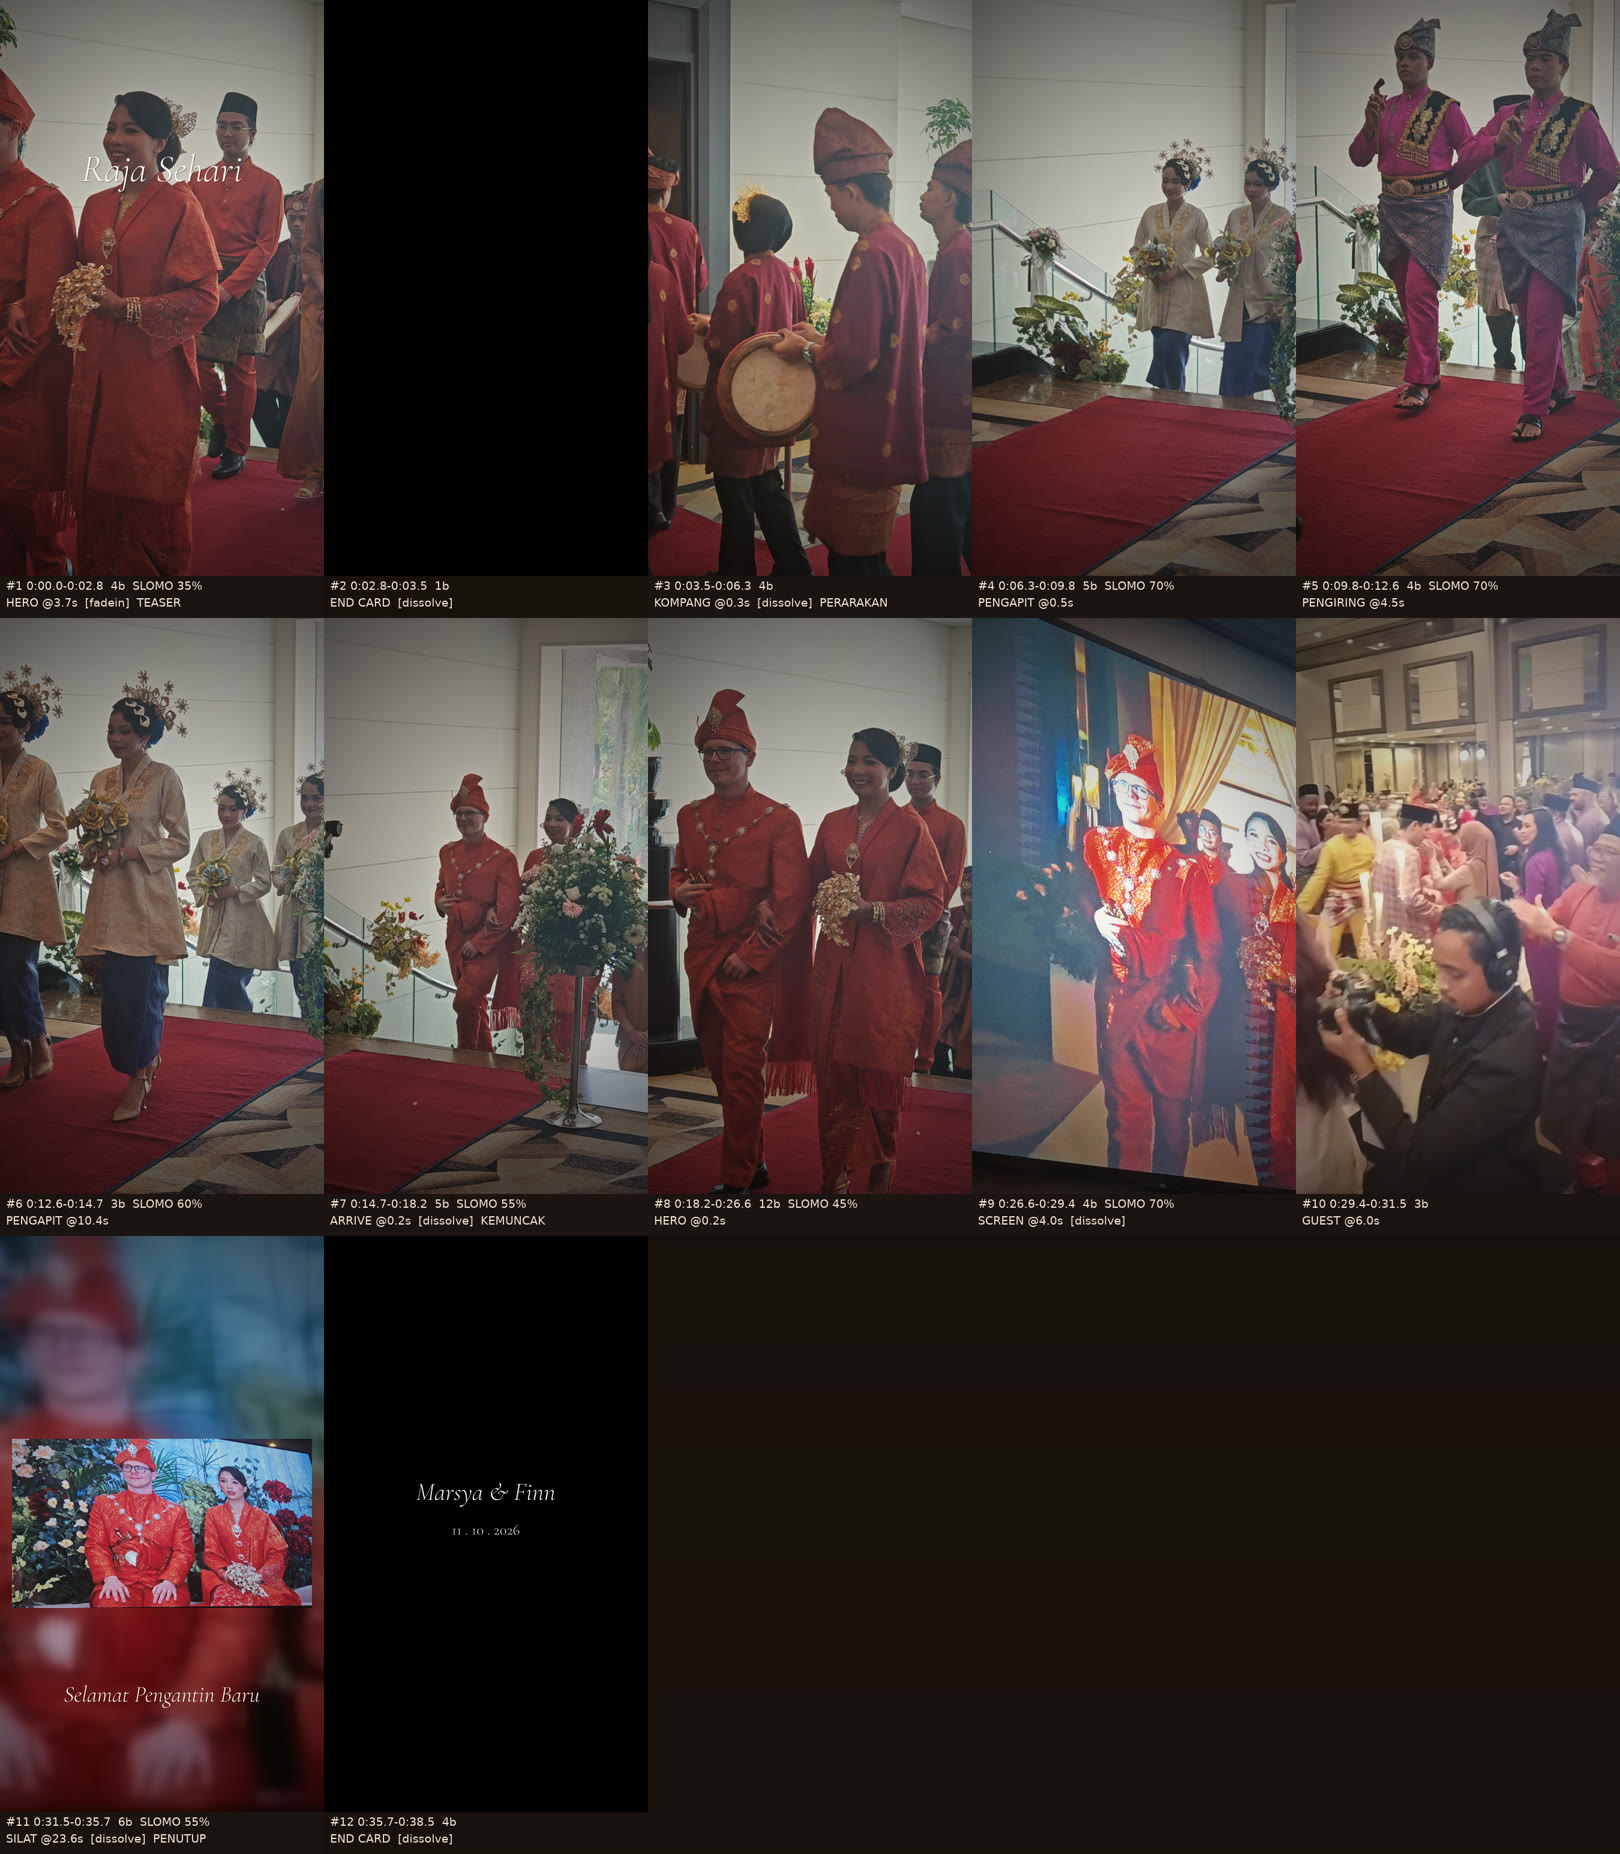
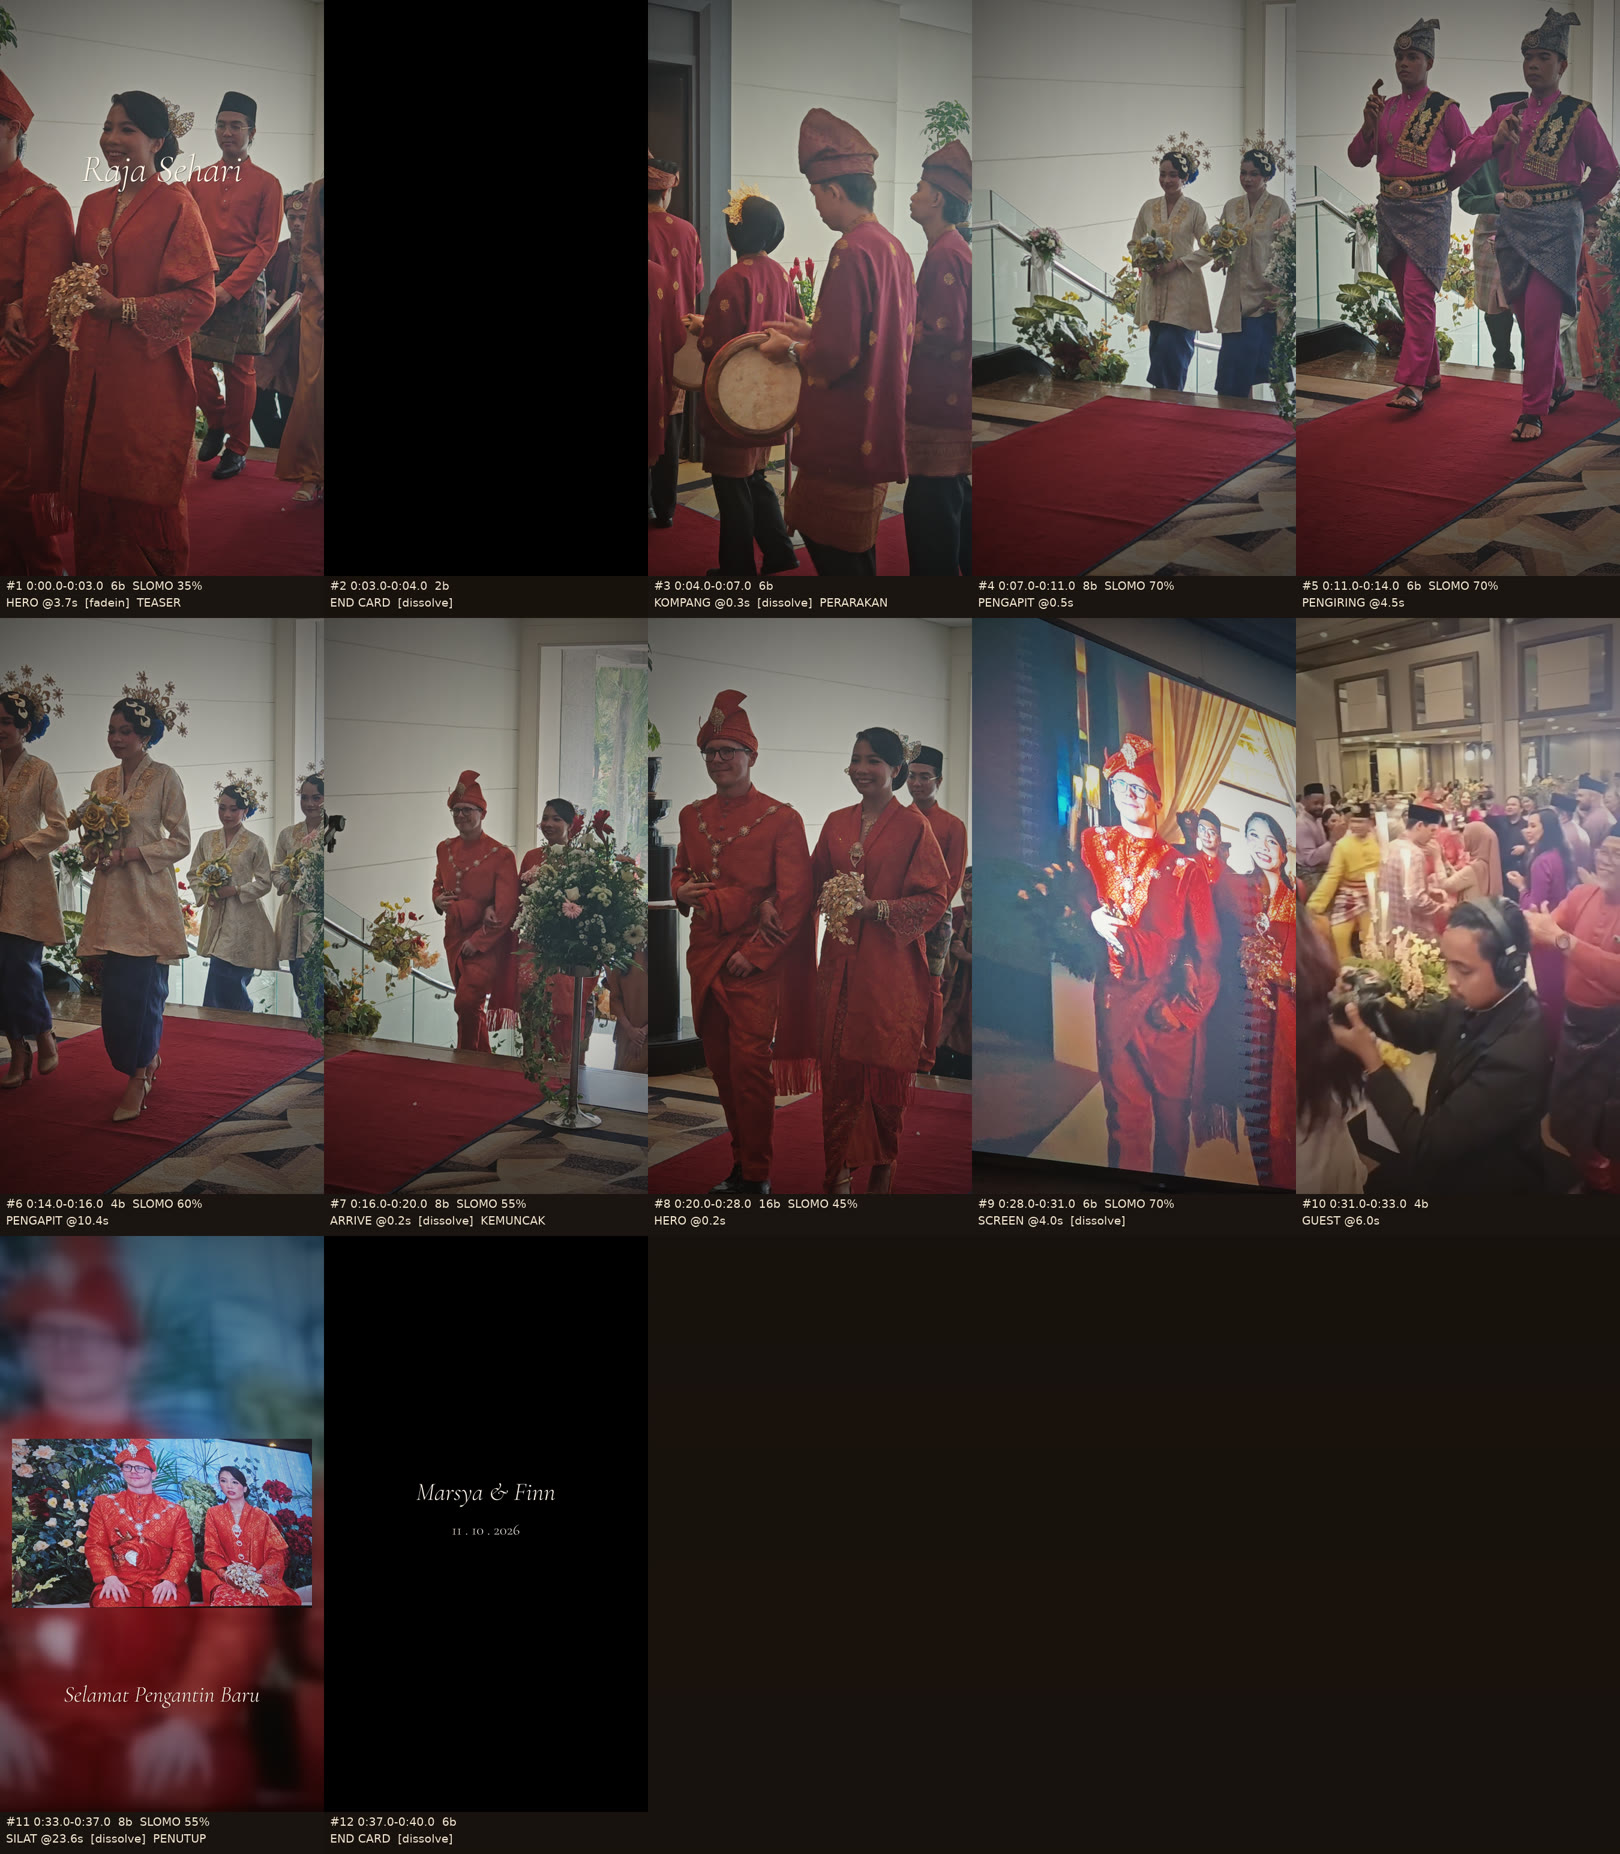
Switch reels to user-supplied Malay instrumental tracks
- reels.json: Malay tracks #7/#2/#8 from the supplied compilation, re-timed
  shots (half-time cuts at 120 BPM), new music offsets
- render.py: loudness normalisation to -14 LUFS
- audio kept in git-ignored music_local/ (copyrighted, not committed)
- EDIT_PLAN.md and storyboards updated

Claude-Session: https://claude.ai/code/session_01PJCRENxJkCg4Rrj7eqGvz4

diff --git a/wedding-reels/render.py b/wedding-reels/render.py
@@ -336,7 +336,8 @@ def render_video(cfg, reel, bpm, src_dir, out_dir, tmp, mode, music, music_offse
                       f"volume={e['nat']},adelay={d}|{d}[n{k}]")
             amix.append(f"[n{k}]")
             k += 1
-    fg.append(f"{''.join(amix)}amix=inputs={len(amix)}:normalize=0,atrim=duration={total:.3f}[aout]")
+    fg.append(f"{''.join(amix)}amix=inputs={len(amix)}:normalize=0,atrim=duration={total:.3f},"
+              f"loudnorm=I=-14:TP=-1.5:LRA=11,aresample=48000[aout]")
 
     suffix = "" if music else "_CLICK"
     out = out_dir / f"{reel['id']}_{mode}{suffix}.mp4"

diff --git a/wedding-reels/EDIT_PLAN.md b/wedding-reels/EDIT_PLAN.md
@@ -39,80 +39,86 @@ Status: **muzik dipilih, timeline disync ikut beat, preview 540p siap. Render fi
 
 ---
 
-## 3. Reel 1: "Hari Bahagia" (44.2s · 92.5 BPM)
+## 3. Reel 1: "Hari Bahagia" (42.2s · 97.1 BPM)
 *Highlight penuh: suasana > perarakan > ketibaan pengantin > kemeriahan > bersanding*
 
-Muzik: **Wedding - TRG Banks (CC0)**, mula pada saat 67.44 dalam lagu. Cut disesuaikan dengan beat sebenar lagu.
+Muzik: **Instrumental Melayu #7 (@DHMUSICART20)**, mula pada saat 2.76 dalam lagu. Cut disesuaikan dengan beat sebenar lagu.
 
 | # | Masa | Beat | Laju | Shot | Transition | Babak |
 |---|---|---|---|---|---|---|
-| 1 | 0:00.0–0:03.9 | 6 | 80% | HALL @0.0s · teks *Hari Bahagia* | fadein | PEMBUKA |
-| 2 | 0:03.9–0:05.2 | 2 | 100% | KOMPANG @6.0s | cut |  |
-| 3 | 0:05.2–0:06.4 | 2 | 100% | KOMPANG @1.5s | cut |  |
-| 4 | 0:06.4–0:10.4 | 6 | 60% | PENGAPIT @4.5s | dissolve | PERARAKAN |
-| 5 | 0:10.4–0:13.0 | 4 | 75% | PENGIRING @1.0s | cut |  |
-| 6 | 0:13.0–0:15.6 | 4 | 70% | PENGIRING @11.5s | cut |  |
-| 7 | 0:15.6–0:18.8 | 5 | 60% | ARRIVE @0.2s | dissolve | KEMUNCAK |
-| 8 | 0:18.8–0:25.3 | 10 | 50% | HERO @0.3s | cut |  |
-| 9 | 0:25.3–0:27.8 | 4 | 100% | GUEST @0.5s | cut |  |
-| 10 | 0:27.8–0:29.8 | 3 | 100% | SILAT @4.0s | cut | KEMERIAHAN |
-| 11 | 0:29.8–0:32.4 | 4 | 70% | DANCE @17.5s | cut |  |
-| 12 | 0:32.4–0:34.3 | 3 | 70% | DANCE @29.6s | cut |  |
-| 13 | 0:34.3–0:36.3 | 3 | 70% | DANCE @41.0s | cut |  |
-| 14 | 0:36.3–0:41.0 | 7 | 53% | SILAT @23.6s (dibingkai) · teks *Selamat Pengantin Baru* | dissolve | PENUTUP |
-| 15 | 0:41.0–0:44.2 | 5 | — | Hitam, **Marsya & Finn** + tarikh | dissolve |  |
+| 1 | 0:00.0–0:03.3 | 6 | 80% | HALL @0.0s · teks *Hari Bahagia* | fadein | PEMBUKA |
+| 2 | 0:03.3–0:04.8 | 2 | 100% | KOMPANG @6.0s | cut |  |
+| 3 | 0:04.8–0:06.1 | 2 | 100% | KOMPANG @1.5s | cut |  |
+| 4 | 0:06.1–0:09.9 | 6 | 60% | PENGAPIT @4.5s | dissolve | PERARAKAN |
+| 5 | 0:09.9–0:12.5 | 4 | 75% | PENGIRING @1.0s | cut |  |
+| 6 | 0:12.5–0:15.0 | 4 | 70% | PENGIRING @11.5s | cut |  |
+| 7 | 0:15.0–0:18.1 | 5 | 60% | ARRIVE @0.2s | dissolve | KEMUNCAK |
+| 8 | 0:18.1–0:24.5 | 10 | 50% | HERO @0.3s | cut |  |
+| 9 | 0:24.5–0:27.0 | 4 | 100% | GUEST @0.5s | cut |  |
+| 10 | 0:27.0–0:28.9 | 3 | 100% | SILAT @4.0s | cut | KEMERIAHAN |
+| 11 | 0:28.9–0:31.4 | 4 | 70% | DANCE @17.5s | cut |  |
+| 12 | 0:31.4–0:33.3 | 3 | 70% | DANCE @29.6s | cut |  |
+| 13 | 0:33.3–0:35.1 | 3 | 70% | DANCE @41.0s | cut |  |
+| 14 | 0:35.1–0:39.6 | 7 | 55% | SILAT @23.6s (dibingkai) · teks *Selamat Pengantin Baru* | dissolve | PENUTUP |
+| 15 | 0:39.6–0:42.2 | 5 | — | Hitam, **Marsya & Finn** + tarikh | dissolve |  |
 
-## 4. Reel 2: "Raja Sehari" (38.6s · 85.7 BPM)
+## 4. Reel 2: "Raja Sehari" (40.0s · 120.1 BPM)
 *Fokus pengantin: teaser senyuman > perarakan membina debaran > pendedahan pengantin > bersanding*
 
-Muzik: **Lullabies For The End Of The World #5 - HoliznaCC0 (CC0)**, mula pada saat 19.32 dalam lagu. Cut disesuaikan dengan beat sebenar lagu.
+Muzik: **Instrumental Melayu #2 (@DHMUSICART20)**, mula pada saat 97.77 dalam lagu. Cut disesuaikan dengan beat sebenar lagu.
 
 | # | Masa | Beat | Laju | Shot | Transition | Babak |
 |---|---|---|---|---|---|---|
-| 1 | 0:00.0–0:02.9 | 4 | 35% | HERO @3.7s · teks *Raja Sehari* | fadein | TEASER |
-| 2 | 0:02.9–0:03.6 | 1 | — | Hitam, **Marsya & Finn** + tarikh | dissolve |  |
-| 3 | 0:03.6–0:06.4 | 4 | 100% | KOMPANG @0.3s | dissolve | PERARAKAN |
-| 4 | 0:06.4–0:10.0 | 5 | 70% | PENGAPIT @0.5s | cut |  |
-| 5 | 0:10.0–0:12.9 | 4 | 70% | PENGIRING @4.5s | cut |  |
-| 6 | 0:12.9–0:15.0 | 3 | 60% | PENGAPIT @10.4s | cut |  |
-| 7 | 0:15.0–0:18.6 | 5 | 55% | ARRIVE @0.2s | dissolve | KEMUNCAK |
-| 8 | 0:18.6–0:26.4 | 12 | 45% | HERO @0.2s | cut |  |
-| 9 | 0:26.4–0:29.3 | 4 | 70% | SCREEN @4.0s | dissolve |  |
-| 10 | 0:29.3–0:31.4 | 3 | 100% | GUEST @6.0s | cut |  |
-| 11 | 0:31.4–0:35.7 | 6 | 55% | SILAT @23.6s (dibingkai) · teks *Selamat Pengantin Baru* | dissolve | PENUTUP |
-| 12 | 0:35.7–0:38.6 | 4 | — | Hitam, **Marsya & Finn** + tarikh | dissolve |  |
+| 1 | 0:00.0–0:03.0 | 6 | 35% | HERO @3.7s · teks *Raja Sehari* | fadein | TEASER |
+| 2 | 0:03.0–0:03.9 | 2 | — | Hitam, **Marsya & Finn** + tarikh | dissolve |  |
+| 3 | 0:03.9–0:06.9 | 6 | 100% | KOMPANG @0.3s | dissolve | PERARAKAN |
+| 4 | 0:06.9–0:11.0 | 8 | 70% | PENGAPIT @0.5s | cut |  |
+| 5 | 0:11.0–0:13.9 | 6 | 70% | PENGIRING @4.5s | cut |  |
+| 6 | 0:13.9–0:15.9 | 4 | 60% | PENGAPIT @10.4s | cut |  |
+| 7 | 0:15.9–0:19.9 | 8 | 55% | ARRIVE @0.2s | dissolve | KEMUNCAK |
+| 8 | 0:19.9–0:28.0 | 16 | 45% | HERO @0.2s | cut |  |
+| 9 | 0:28.0–0:31.0 | 6 | 70% | SCREEN @4.0s | dissolve |  |
+| 10 | 0:31.0–0:33.0 | 4 | 100% | GUEST @6.0s | cut |  |
+| 11 | 0:33.0–0:36.9 | 8 | 55% | SILAT @23.6s (dibingkai) · teks *Selamat Pengantin Baru* | dissolve | PENUTUP |
+| 12 | 0:36.9–0:40.0 | 6 | — | Hitam, **Marsya & Finn** + tarikh | dissolve |  |
 
-## 5. Reel 3: "Meriah" (40.0s · 90.0 BPM)
+## 5. Reel 3: "Meriah" (43.0s · 120.0 BPM)
 *Adat & kemeriahan: kompang, tetamu, silat, tarian - ditutup dengan pengantin*
 
-Muzik: **Street Lights Passing By - HoliznaCC0 (CC0)**, mula pada saat 96.71 dalam lagu. Cut disesuaikan dengan beat sebenar lagu.
+Muzik: **Instrumental Melayu #8 (@DHMUSICART20)**, mula pada saat 91.60 dalam lagu. Cut disesuaikan dengan beat sebenar lagu.
 
 | # | Masa | Beat | Laju | Shot | Transition | Babak |
 |---|---|---|---|---|---|---|
-| 1 | 0:00.0–0:02.7 | 4 | 100% | HALL @3.0s · teks *Meriah* | fadein | PEMBUKA |
-| 2 | 0:02.7–0:05.3 | 4 | 100% | KOMPANG @6.0s | cut |  |
-| 3 | 0:05.3–0:08.0 | 4 | 100% | GUEST @0.0s | cut |  |
-| 4 | 0:08.0–0:10.7 | 4 | 100% | KOMPANG @9.6s | cut |  |
-| 5 | 0:10.7–0:13.3 | 4 | 60% | SILAT @4.0s | cut | ADAT |
-| 6 | 0:13.3–0:15.3 | 3 | 100% | SILAT @7.0s | cut |  |
-| 7 | 0:15.3–0:17.3 | 3 | 100% | DANCE @1.0s | cut | TARIAN |
-| 8 | 0:17.3–0:19.3 | 3 | 100% | DANCE @10.0s | cut |  |
-| 9 | 0:19.3–0:22.0 | 4 | 50% | DANCE @17.8s | cut |  |
-| 10 | 0:22.0–0:24.0 | 3 | 60% | DANCE @29.5s | cut |  |
-| 11 | 0:24.0–0:26.0 | 3 | 100% | DANCE @49.5s | cut |  |
-| 12 | 0:26.0–0:28.0 | 3 | 100% | DANCE @55.5s | cut |  |
-| 13 | 0:28.0–0:30.7 | 4 | 60% | DANCE @41.6s | cut |  |
-| 14 | 0:30.7–0:34.6 | 6 | 50% | HERO @0.5s | dissolve | PENUTUP |
-| 15 | 0:34.6–0:37.3 | 4 | 60% | SILAT @24.0s (dibingkai) · teks *Selamat Pengantin Baru* | dissolve |  |
-| 16 | 0:37.3–0:40.0 | 4 | — | Hitam, **Marsya & Finn** + tarikh | dissolve |  |
+| 1 | 0:00.0–0:03.0 | 6 | 100% | HALL @3.0s · teks *Meriah* | fadein | PEMBUKA |
+| 2 | 0:03.0–0:06.0 | 6 | 100% | KOMPANG @6.0s | cut |  |
+| 3 | 0:06.0–0:09.0 | 6 | 100% | GUEST @0.0s | cut |  |
+| 4 | 0:09.0–0:12.0 | 6 | 100% | KOMPANG @9.2s | cut |  |
+| 5 | 0:12.0–0:15.0 | 6 | 60% | SILAT @4.0s | cut | ADAT |
+| 6 | 0:15.0–0:17.0 | 4 | 100% | SILAT @7.0s | cut |  |
+| 7 | 0:17.0–0:19.0 | 4 | 100% | DANCE @1.0s | cut | TARIAN |
+| 8 | 0:19.0–0:21.0 | 4 | 100% | DANCE @10.0s | cut |  |
+| 9 | 0:21.0–0:24.0 | 6 | 50% | DANCE @17.8s | cut |  |
+| 10 | 0:24.0–0:26.0 | 4 | 60% | DANCE @29.5s | cut |  |
+| 11 | 0:26.0–0:28.0 | 4 | 100% | DANCE @49.5s | cut |  |
+| 12 | 0:28.0–0:30.0 | 4 | 100% | DANCE @55.5s | cut |  |
+| 13 | 0:30.0–0:33.0 | 6 | 60% | DANCE @41.6s | cut |  |
+| 14 | 0:33.0–0:37.0 | 8 | 50% | HERO @0.5s | dissolve | PENUTUP |
+| 15 | 0:37.0–0:40.0 | 6 | 60% | SILAT @24.0s (dibingkai) · teks *Selamat Pengantin Baru* | dissolve |  |
+| 16 | 0:40.0–0:43.0 | 6 | — | Hitam, **Marsya & Finn** + tarikh | dissolve |  |
 
-### Muzik (CC0, tak perlu kredit)
-Semua lagu dari Free Music Archive dengan lesen CC0 1.0. Butiran dan pautan ada dalam `music_preview/MUSIC.md`. Fail penuh ada dalam `music/`.
+### Muzik: instrumental lagu Melayu (dibekalkan oleh pengguna)
+Sumber: fail "Easy Listening !!! Kumpulan Musik Instrumen Melayu @DHMUSICART20.mp3" (kompilasi 13 lagu, 64.6 minit) dalam folder Drive.
+- Reel 1: lagu #7 (96 BPM) · Reel 2: lagu #2 (120 BPM, cut half-time) · Reel 3: lagu #8 (120 BPM)
+- Lagu #5 dan #10 tidak digunakan kerana ada bahagian rosak (kosong) dalam fail.
+- Fail audio disimpan dalam `music_local/` dan **tidak di-commit** ke repo, kerana muzik ini berhak cipta.
+- Kekuatan bunyi dinormalkan ke -14 LUFS (standard Instagram/TikTok).
+- Hak cipta: untuk Instagram, guna versi `_TANPA-MUZIK` dan tambah lagu dari library Instagram, atau terima risiko di-mute.
+- Muzik CC0 sebelum ini (Wedding / Lullabies #5 / Street Lights) masih ada dalam `music/` sebagai sandaran.
 
 ## 6. Status & langkah seterusnya
 
 1. Nama pengantin: **Marsya & Finn** ✓
-2. Muzik CC0 dipilih dan disync ✓ (R1 Wedding · R2 Lullabies #5 · R3 Street Lights)
+2. Muzik instrumental Melayu disync ✓ (lagu #7 / #2 / #8 dari kompilasi @DHMUSICART20)
 3. Preview 540p siap ✓ (`out/*_preview.mp4`, tidak di-commit kerana fail video)
 4. **Menunggu:** kelulusan preview, atau senarai perubahan. Selepas itu baru render final 1080×1920.
 5. (Pilihan) Klip tambahan: bersalaman, merenjis, pelamin yang dirakam terus.
